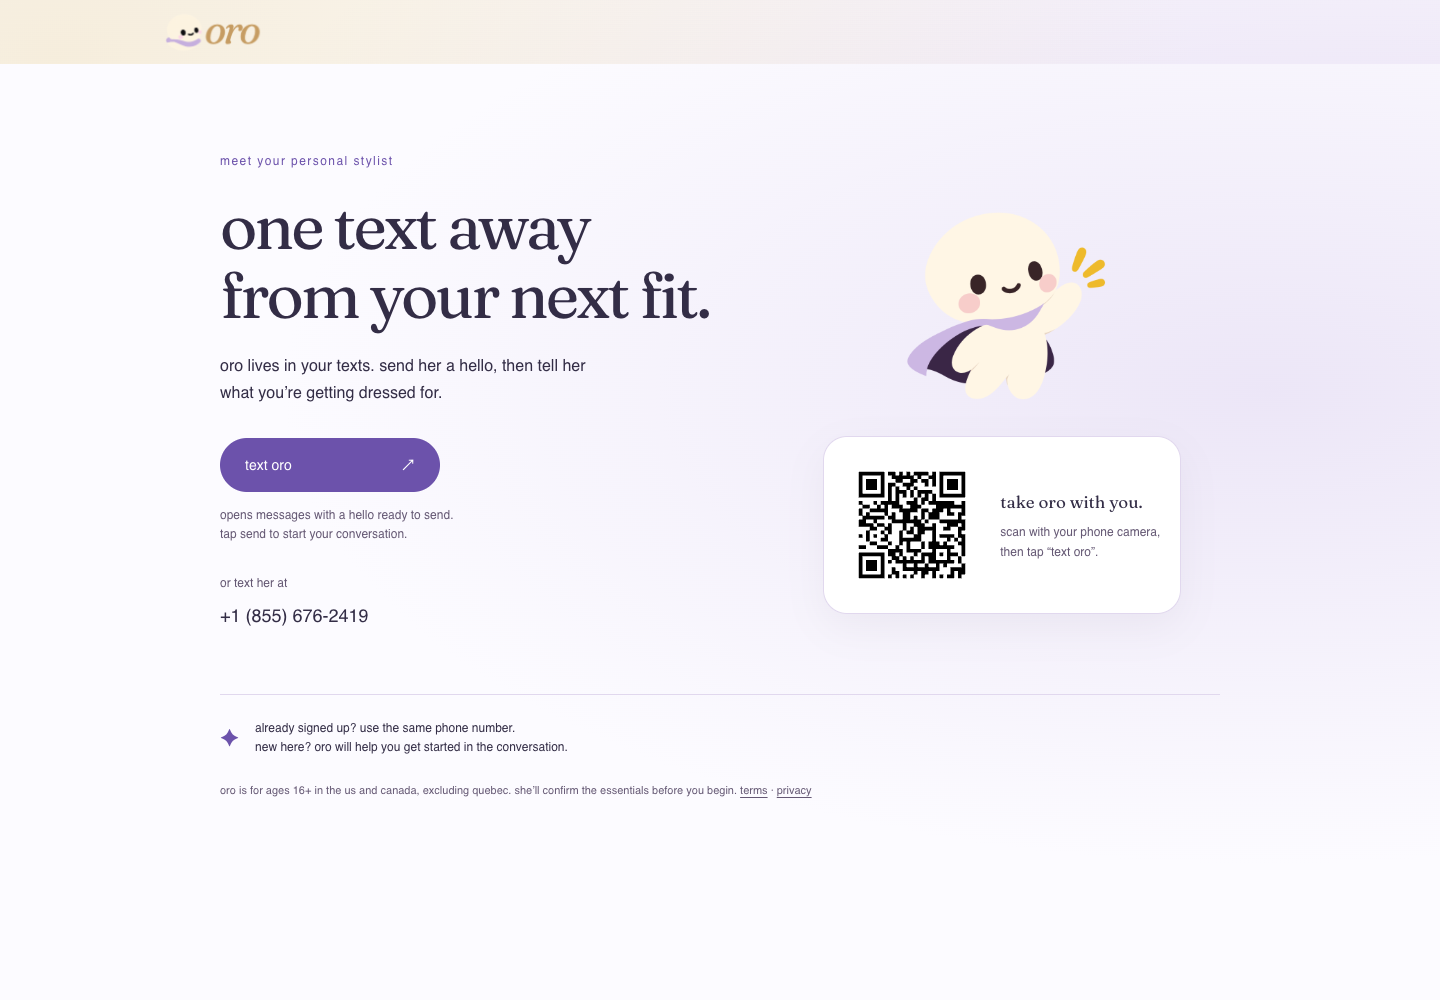
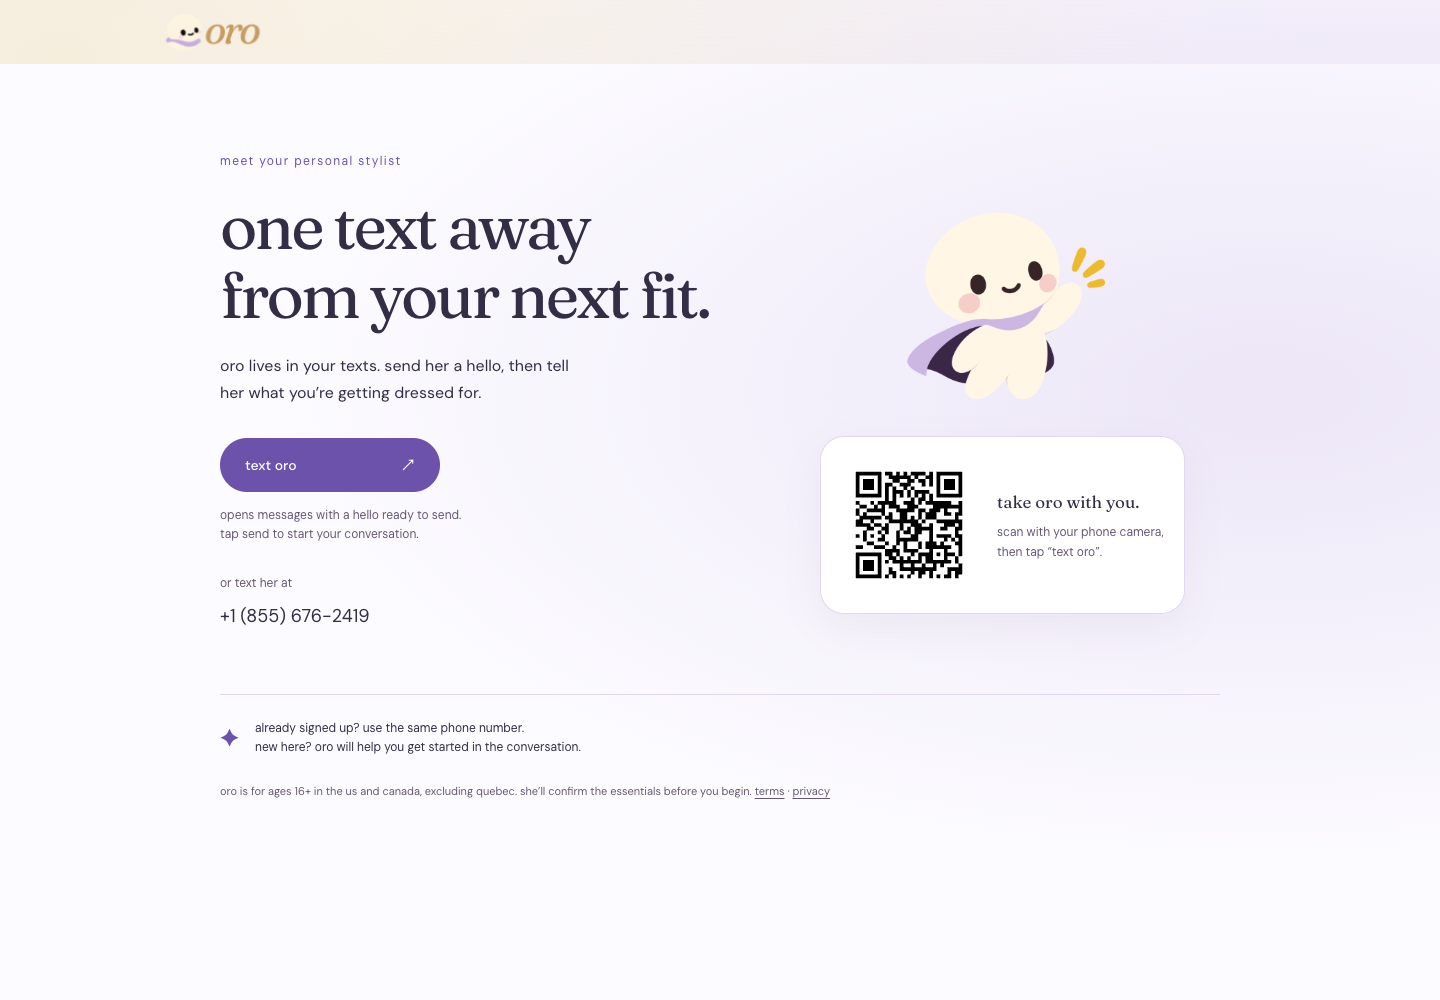
Capture texting handoff with production fonts

diff --git a/docs/text-activation.md b/docs/text-activation.md
@@ -4,7 +4,7 @@
 
 On desktop, the QR opens `https://askoro.now/get-started?from=qr` on the person's phone. That page chooses the SMS draft format for their device. The visible phone number also works as a fallback. This avoids relying on one SMS-body separator working across both iPhone and Android QR scanners.
 
-The screenshots below are real local Chromium renders, with the cookie banner declined and focus moved off the heading. The phone screenshot is a responsive web viewport, not a native Messages screenshot. Browser tests check iPhone/Android user agents, draft links, CTA visibility, and horizontal overflow.
+The screenshots below are real local Chromium renders of the production build, with the bundled fonts loaded, with the cookie banner declined and focus moved off the heading. The phone screenshot is a responsive web viewport, not a native Messages screenshot. Browser tests check iPhone/Android user agents, draft links, CTA visibility, and horizontal overflow.
 
 ## Desktop · 1440 × 1000
 
